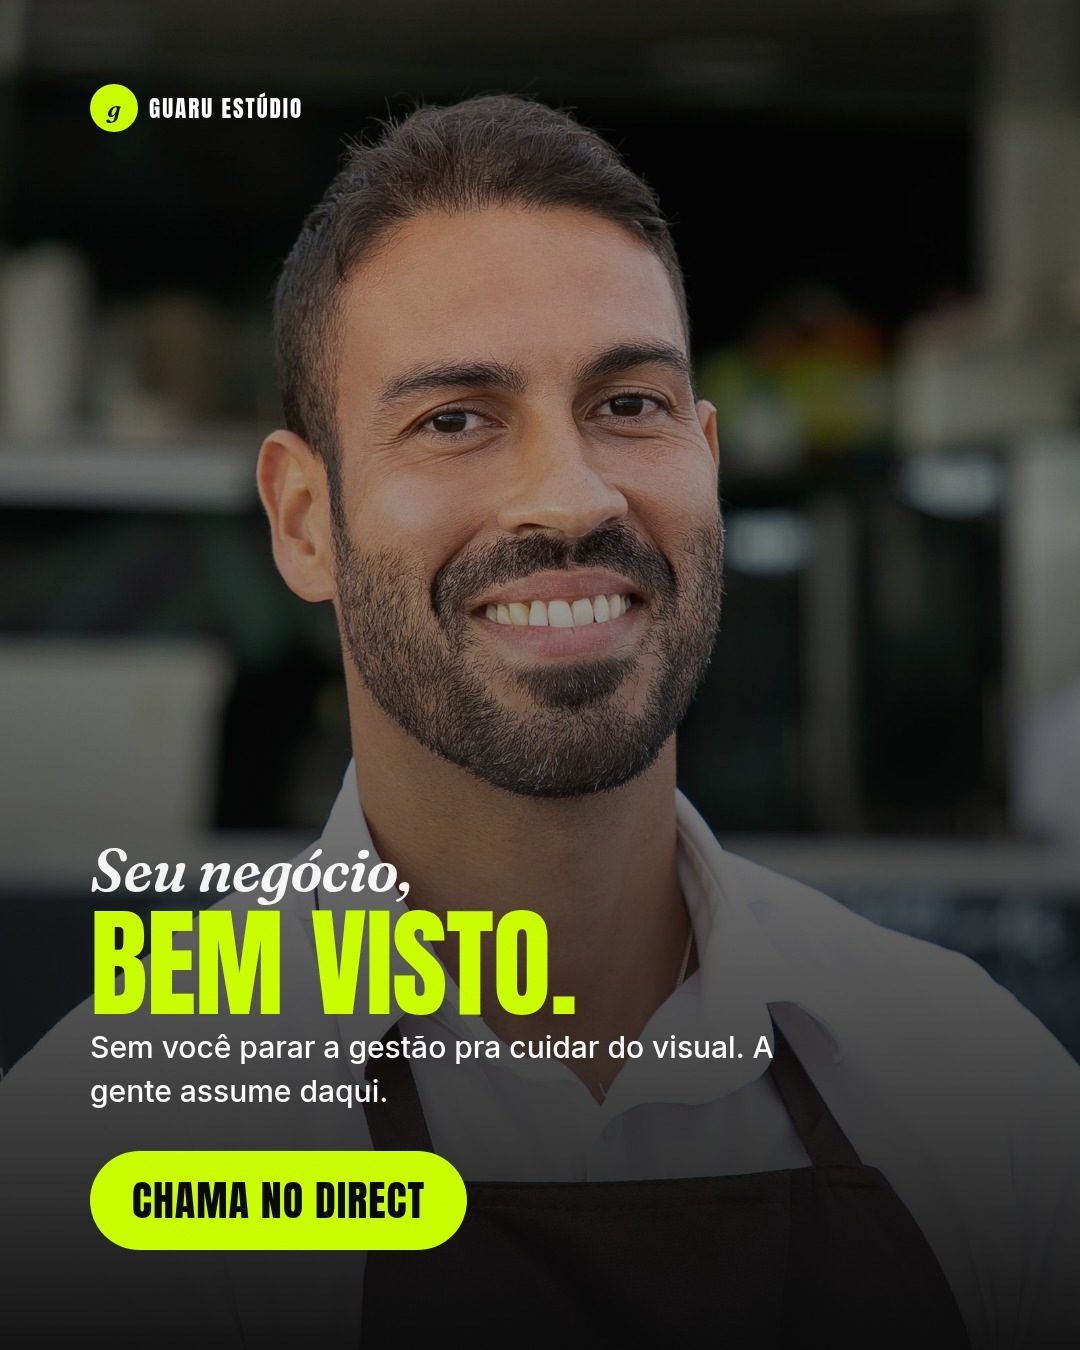
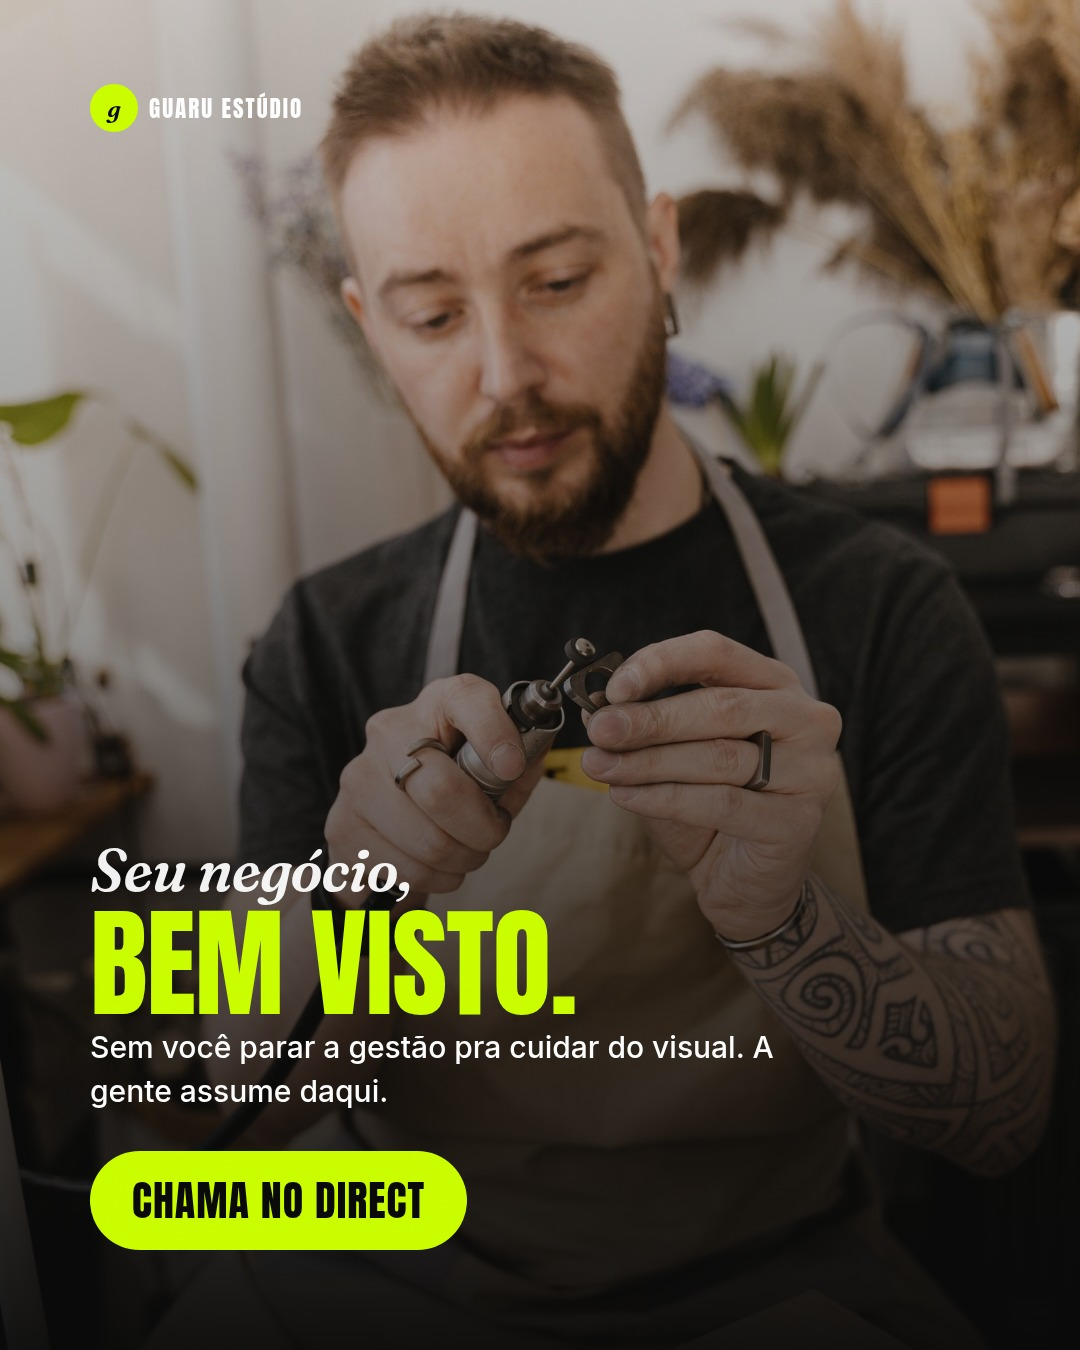
Corrige foto fora de contexto + crava regra 'foto serve à copy'
Marcos: erro gravíssimo — peguei a 1ª foto genérica (sorriso posado) porque
'ref usa foto', desalinhada da copy, sem estudo = 'foto no escuro'. A faculdade
já dizia 'foto serve ao conteúdo'; faltava enforcement no processo.

- Gate de craft: passo 'FOTO serve à copy' + item no checklist-portão (tirar o
  brief da copy -> buscar com intenção -> julgar candidatas contra o conceito;
  foto que não conta a história da copy é pior que tipográfico).
- estudio-beneficio-v1: troquei o sorriso posado por um MAKER absorvido no
  ofício (julgado entre candidatas) — agora a imagem conta a história da copy
  ('você caprichou no seu trabalho. E no seu feed?'). Hero + fechamento.
- _INDICE: aprendizados de tipografia (explorar DNA) e foto-serve-à-copy.

Claude-Session: https://claude.ai/code/session_01RkS8WPsEfigPPfQoYRWyhe

diff --git a/Projetos/guaru-estudio/02-content-generator/outputs/estudio-beneficio-v1.html b/Projetos/guaru-estudio/02-content-generator/outputs/estudio-beneficio-v1.html
@@ -23,12 +23,12 @@ html,body{background:#cfcabd}#post{width:1080px}
 
 <!-- 01 — HERO com FOTO + serifa editorial (premium). Arquétipo: foto full-bleed + headline embaixo -->
 <section class="slide grain" style="background:#000">
-  <img class="ph" src="../../assets/empreendedor-livre.jpg" style="object-position:52% 22%">
-  <div style="position:absolute;inset:0;background:linear-gradient(180deg,rgba(10,10,10,.6) 0%,rgba(10,10,10,.05) 26%,rgba(10,10,10,.2) 52%,rgba(10,10,10,.95) 100%)"></div>
+  <img class="ph" src="../../assets/oficio-foco-2.jpg" style="object-position:50% 26%">
+  <div style="position:absolute;inset:0;background:linear-gradient(180deg,rgba(10,10,10,.55) 0%,rgba(10,10,10,.05) 24%,rgba(10,10,10,.18) 48%,rgba(10,10,10,.96) 100%)"></div>
   <div class="wm" style="color:#fff;position:absolute;top:84px;left:90px"><span class="gg">g</span> GUARU&nbsp;ESTÚDIO</div>
   <div style="position:absolute;left:90px;right:90px;bottom:104px;color:#fff;z-index:3">
-    <div class="serif" style="font-size:46px;opacity:.95;margin-bottom:6px">Imagina o dia em que</div>
-    <div class="grot" style="font-size:104px">o marketing deixa<br>de ser <span style="color:var(--lime)">seu</span> problema.</div>
+    <div class="serif" style="font-size:48px;opacity:.95;margin-bottom:4px">Você caprichou no seu trabalho.</div>
+    <div class="grot" style="font-size:120px">E no seu <span style="color:var(--lime)">feed</span>?</div>
   </div>
 </section>
 
@@ -78,8 +78,8 @@ html,body{background:#cfcabd}#post{width:1080px}
 
 <!-- 05 — CTA com FOTO (o dono tranquilo) · tagline + convite -->
 <section class="slide grain" style="background:#000">
-  <img class="ph" src="../../assets/empreendedor-livre.jpg" style="object-position:52% 24%">
-  <div style="position:absolute;inset:0;background:linear-gradient(180deg,rgba(10,10,10,.25) 0%,rgba(10,10,10,.4) 42%,rgba(10,10,10,.96) 100%)"></div>
+  <img class="ph" src="../../assets/oficio-foco-2.jpg" style="object-position:50% 22%">
+  <div style="position:absolute;inset:0;background:linear-gradient(180deg,rgba(10,10,10,.22) 0%,rgba(10,10,10,.4) 42%,rgba(10,10,10,.96) 100%)"></div>
   <div class="wm" style="color:#fff;position:absolute;top:84px;left:90px"><span class="gg">g</span> GUARU&nbsp;ESTÚDIO</div>
   <div style="position:absolute;left:90px;right:90px;bottom:100px;color:#fff;z-index:3">
     <div class="serif" style="font-size:58px;opacity:.95">Seu negócio,</div>

diff --git a/knowledge-base/design/craft-primeiro-o-gate.md b/knowledge-base/design/craft-primeiro-o-gate.md
@@ -47,7 +47,23 @@ Cada passo aponta pro doc fundo que já existe na faculdade. Não pular nenhum.
    com a referência nos marcadores. Só entrega se passar no checklist abaixo. Entregar **slides
    individuais em alta** (nunca folha de contato/contact sheet baixa), output JPG leve.
 
+## FOTO serve à copy — proibido "foto no escuro" (regra cravada 2026-06-26)
+Usar foto é DECISÃO do designer por peça (régua, não regra: às vezes chapado/tipográfico, às vezes foto).
+Mas se entrar foto, ela tem que **servir à copy/conceito** — não a primeira imagem genérica que aparece.
+Pegar um stock qualquer "porque referência usa foto" é o mesmo pecado da copy no escuro. Disciplina:
+1. **Derivar o BRIEF da imagem a partir da copy** ANTES de buscar: o que a imagem precisa MOSTRAR pra
+   reforçar a mensagem? (ex.: copy "você cuida do que sabe fazer" → foto do dono ABSORVIDO no ofício/mãos
+   trabalhando — não um sorriso posado pra câmera, que não diz nada da mensagem).
+2. **Buscar com intenção** (query que descreve o conceito, não "pessoa sorrindo") e **trazer candidatas**.
+3. **Julgar cada candidata contra o conceito** (Freeman/Bang — `imagem-e-fotografia-canone.md`): conta a
+   história da copy? o enquadramento/emoção batem? autêntica, não publicitária-genérica? Se não serve, descarta.
+4. Foto genérica/desalinhada é **pior** que tipográfica limpa. Na dúvida entre foto-que-não-serve e sem-foto,
+   vai de tipográfico. → `foto-vs-texto-carrossel.md` + doutrina do `tools/foto-auto.mjs` ("a foto SEMPRE serve
+   ao conteúdo, nunca aleatória").
+
 ## Checklist do portão (se algum NÃO → volta pro layout, não entrega)
+- [ ] **FOTO (se houver):** foi escolhida pra SERVIR a copy/conceito (brief tirado da copy), não "foto no
+      escuro"/primeira genérica? Conta a história da mensagem? (Se não serve → troca a foto ou vai tipográfico.)
 - [ ] Li o CONJUNTO de refs e extraí a ESTRUTURA (não copiei o enfeite de uma só)?
 - [ ] A cor de marca DOMINA a peça (não é um risquinho tímido)?
 - [ ] Tem camadas/profundidade (palavra fantasma, grafismo sangrando, textura) — não está chapado?

diff --git a/Projetos/guaru-estudio/02-content-generator/outputs/_INDICE-CONTEUDOS.md b/Projetos/guaru-estudio/02-content-generator/outputs/_INDICE-CONTEUDOS.md
@@ -31,4 +31,9 @@
 - **CRIATIVIDADE (cravada 2026-06-26):** cada peça com roupagem NOVA; trocar só a copy no mesmo molde =
   "mais do mesmo" = reprovado. Rotacionar arquétipos e variar composição slide a slide (3+ slides no mesmo
   eixo = template disfarçado). Régua, não regra — vale até pros meus próprios layouts anteriores.
+- **TIPOGRAFIA explora dentro do DNA:** não martelar Anton sempre; a serifa itálica editorial (Fraunces) é
+  registro do DNA e dá tom premium. Variar registro tipográfico por peça, não só a composição.
+- **FOTO serve à COPY (cravada 2026-06-26):** proibido "foto no escuro" (pegar a 1ª genérica porque "ref usa
+  foto"). Tirar o BRIEF da copy → buscar com intenção → julgar candidatas contra o conceito. Foto que não
+  conta a história da copy é pior que tipográfico limpo. (Gate de craft + `foto-vs-texto-carrossel.md`.)
 - Fontes do DNA instaladas localmente (sem depender de rede) — `tools/render/fonts/`.
